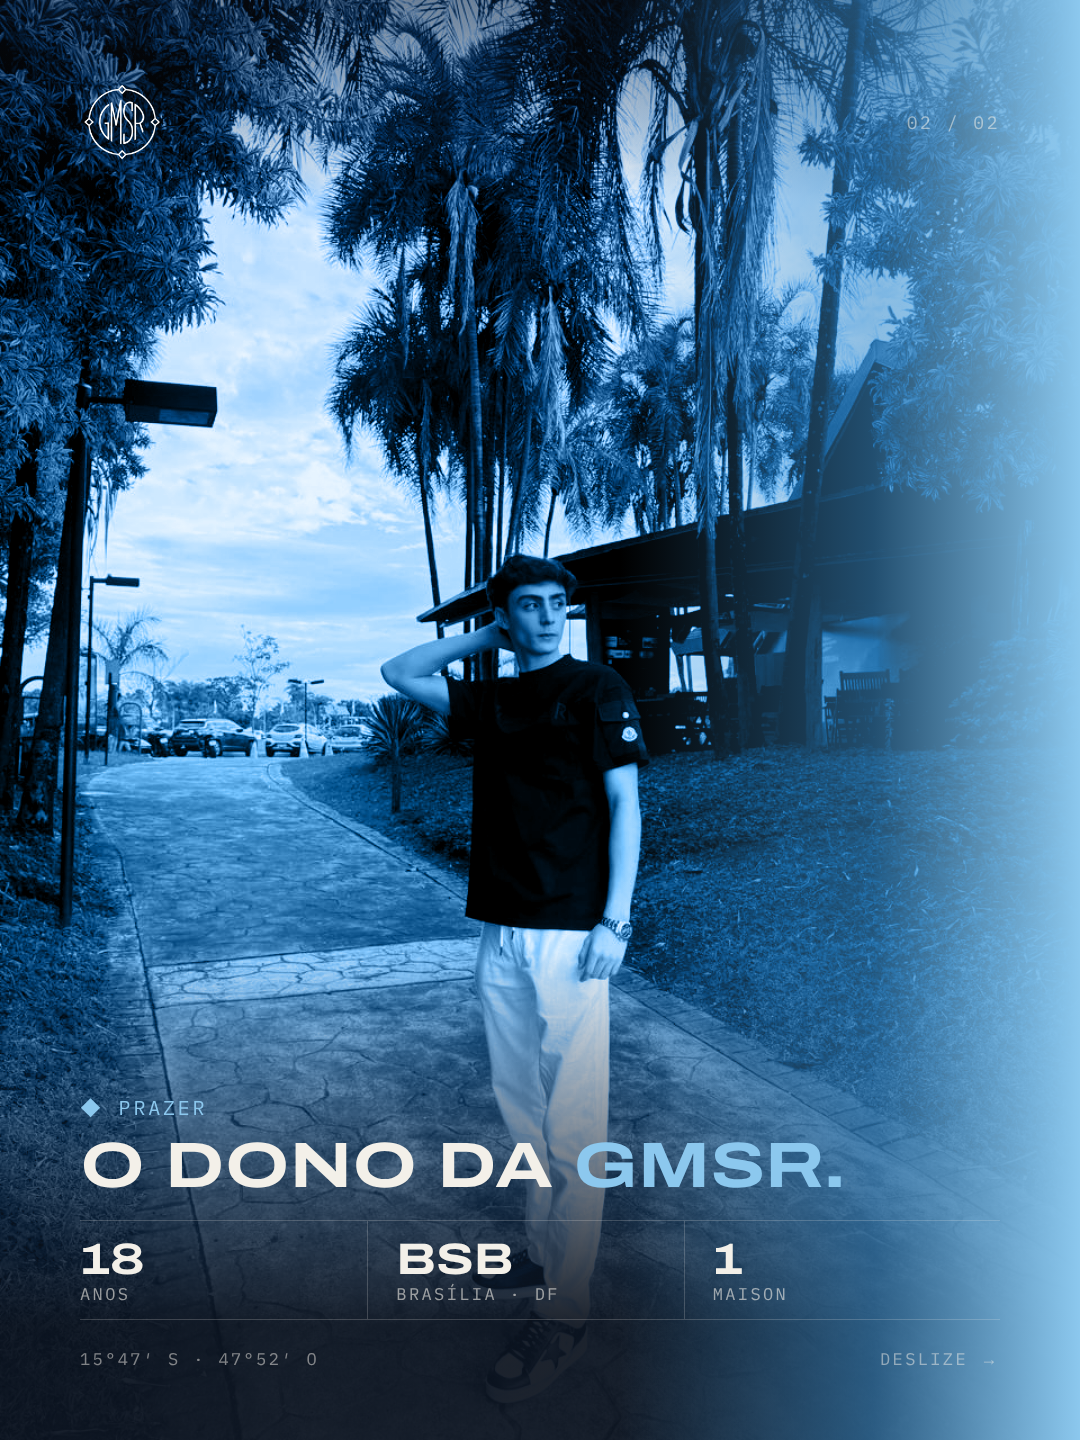
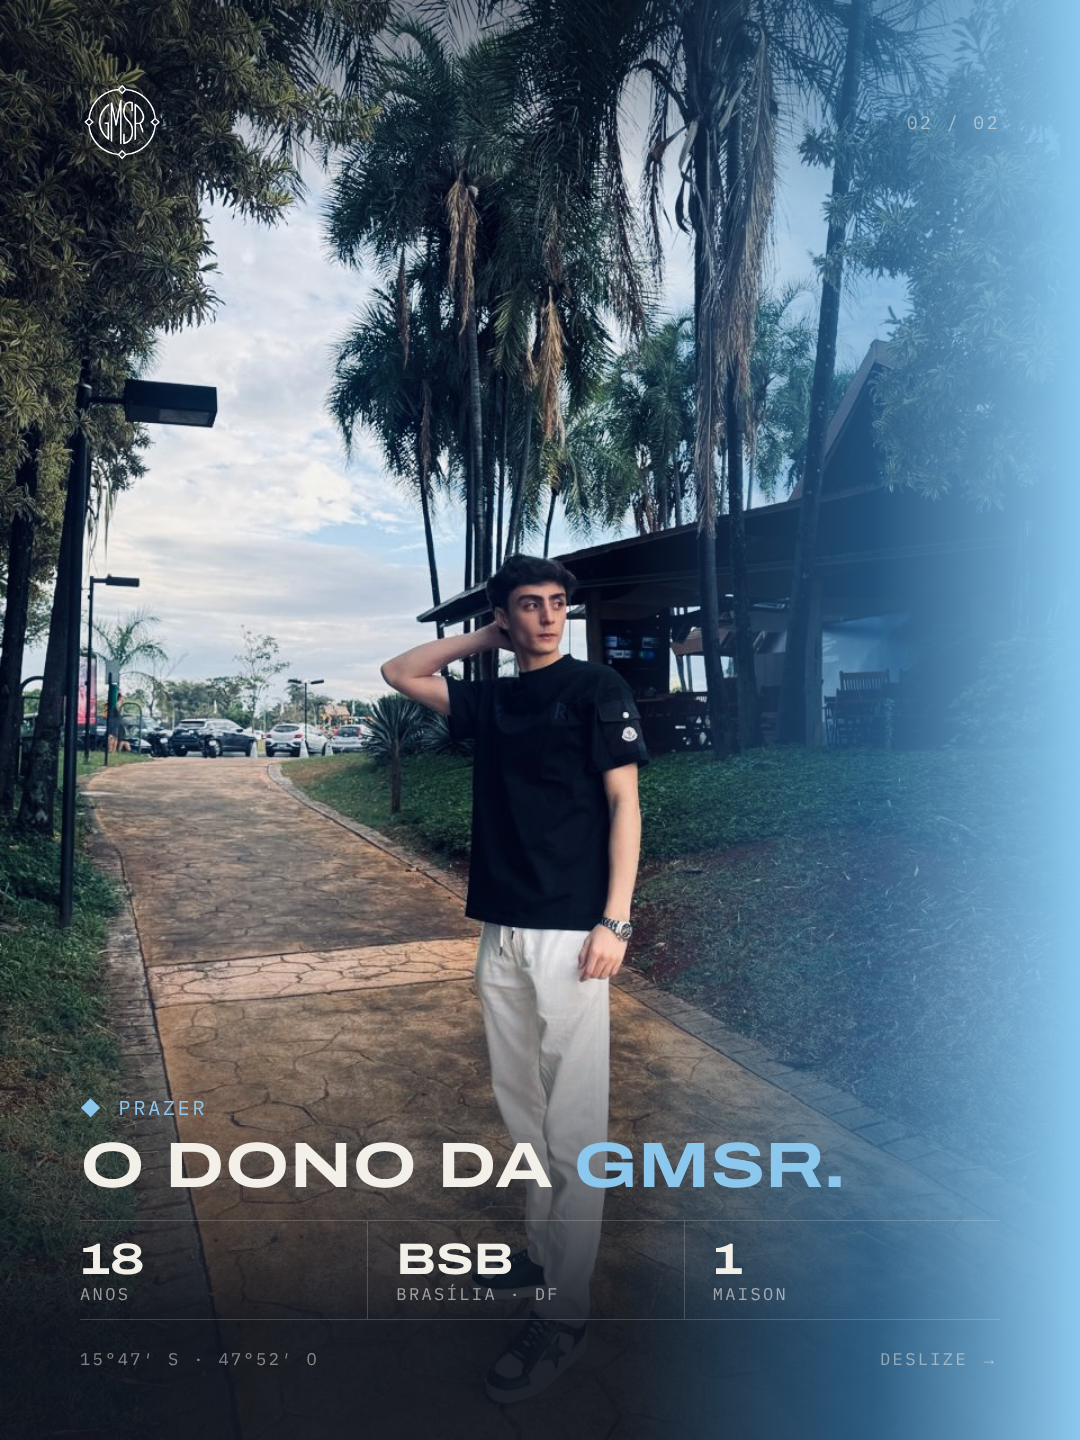
"Quem é o dono": foto nas cores originais, mantendo o degradê na direita
Claude-Session: https://claude.ai/code/session_018Rxm36svjxPgU3W8TLCnbb

diff --git a/posts-grade/04-carrossel-dono/slides.html b/posts-grade/04-carrossel-dono/slides.html
@@ -110,8 +110,6 @@
   .side img{width:100%;height:100%;object-fit:cover;object-position:50% 35%}
   .pano .photo{background:radial-gradient(55% 45% at 50% 45%,rgba(62,143,203,.32),transparent 70%),#0B111B}
   .pano .ask{position:absolute;left:0;width:1080px;top:170px;text-align:center;font-family:Wide;font-stretch:125%;font-weight:800;font-size:1000px;line-height:1;color:transparent;-webkit-text-stroke:3px rgba(140,200,238,.45)}
-  .full.blue img{filter:grayscale(1) contrast(1.1) brightness(.95)}
-  .full.blue:before{content:"";position:absolute;inset:0;z-index:1;background:linear-gradient(180deg,#1C4F86,#3E8FCB 55%,#1A3A63);mix-blend-mode:color}
   .full.blue:after{z-index:2}
   .edge2{position:absolute;top:0;bottom:0;right:0;width:460px;z-index:2;background:linear-gradient(90deg,rgba(62,143,203,0),rgba(62,143,203,.55) 55%,#8CC8EE)}
 </style>
